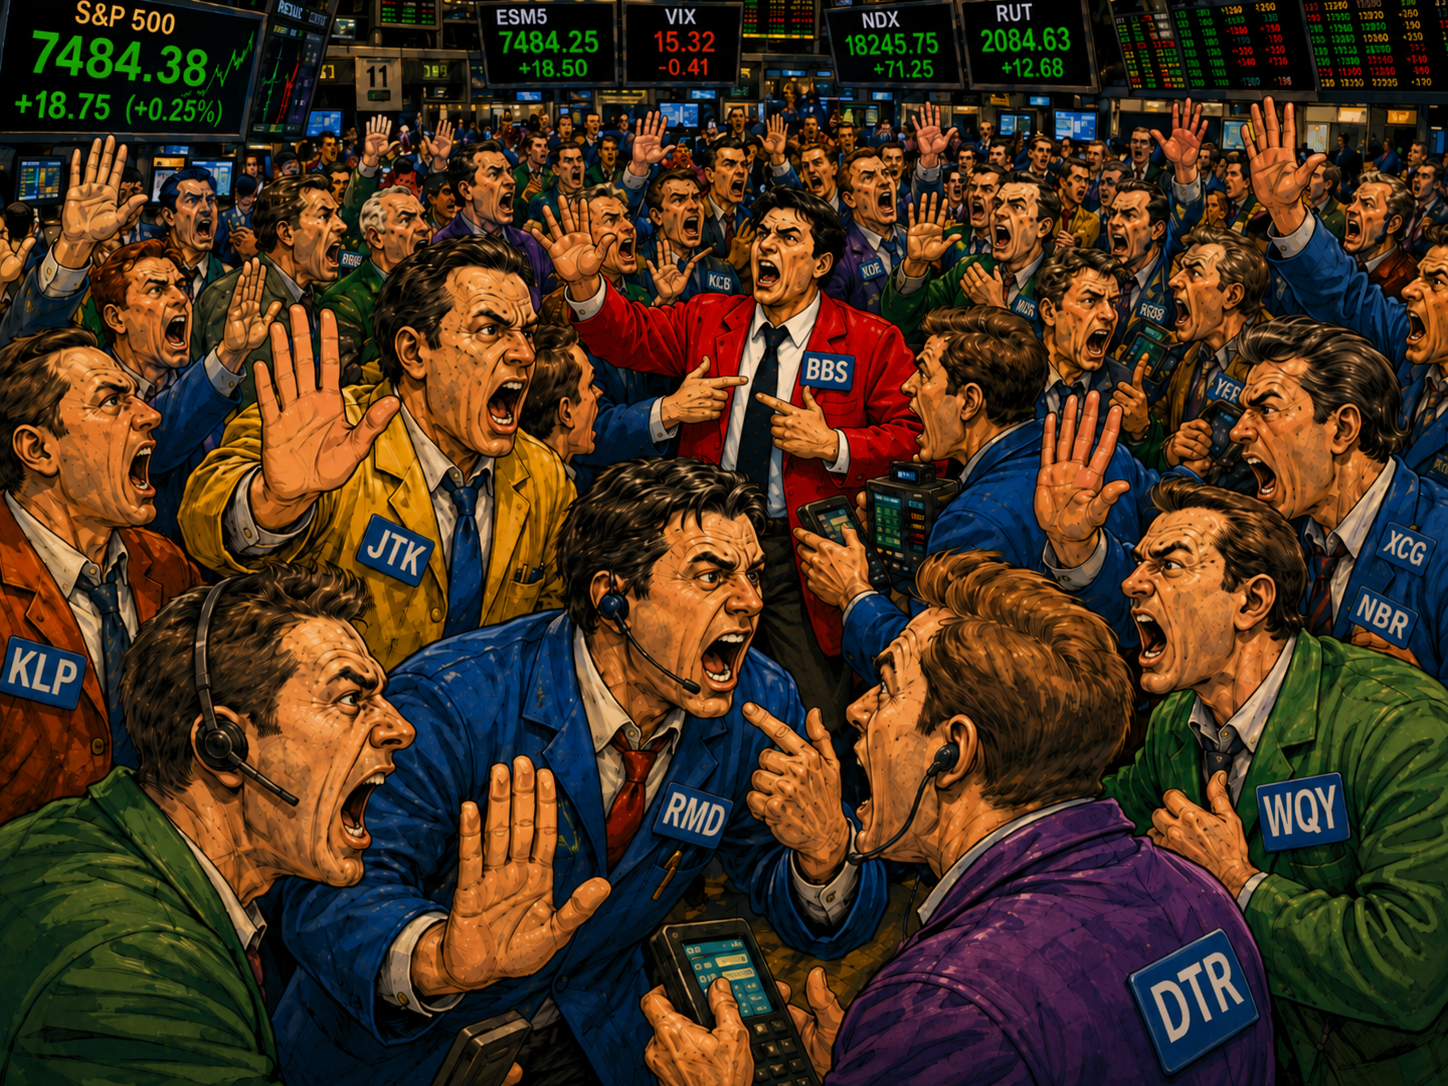
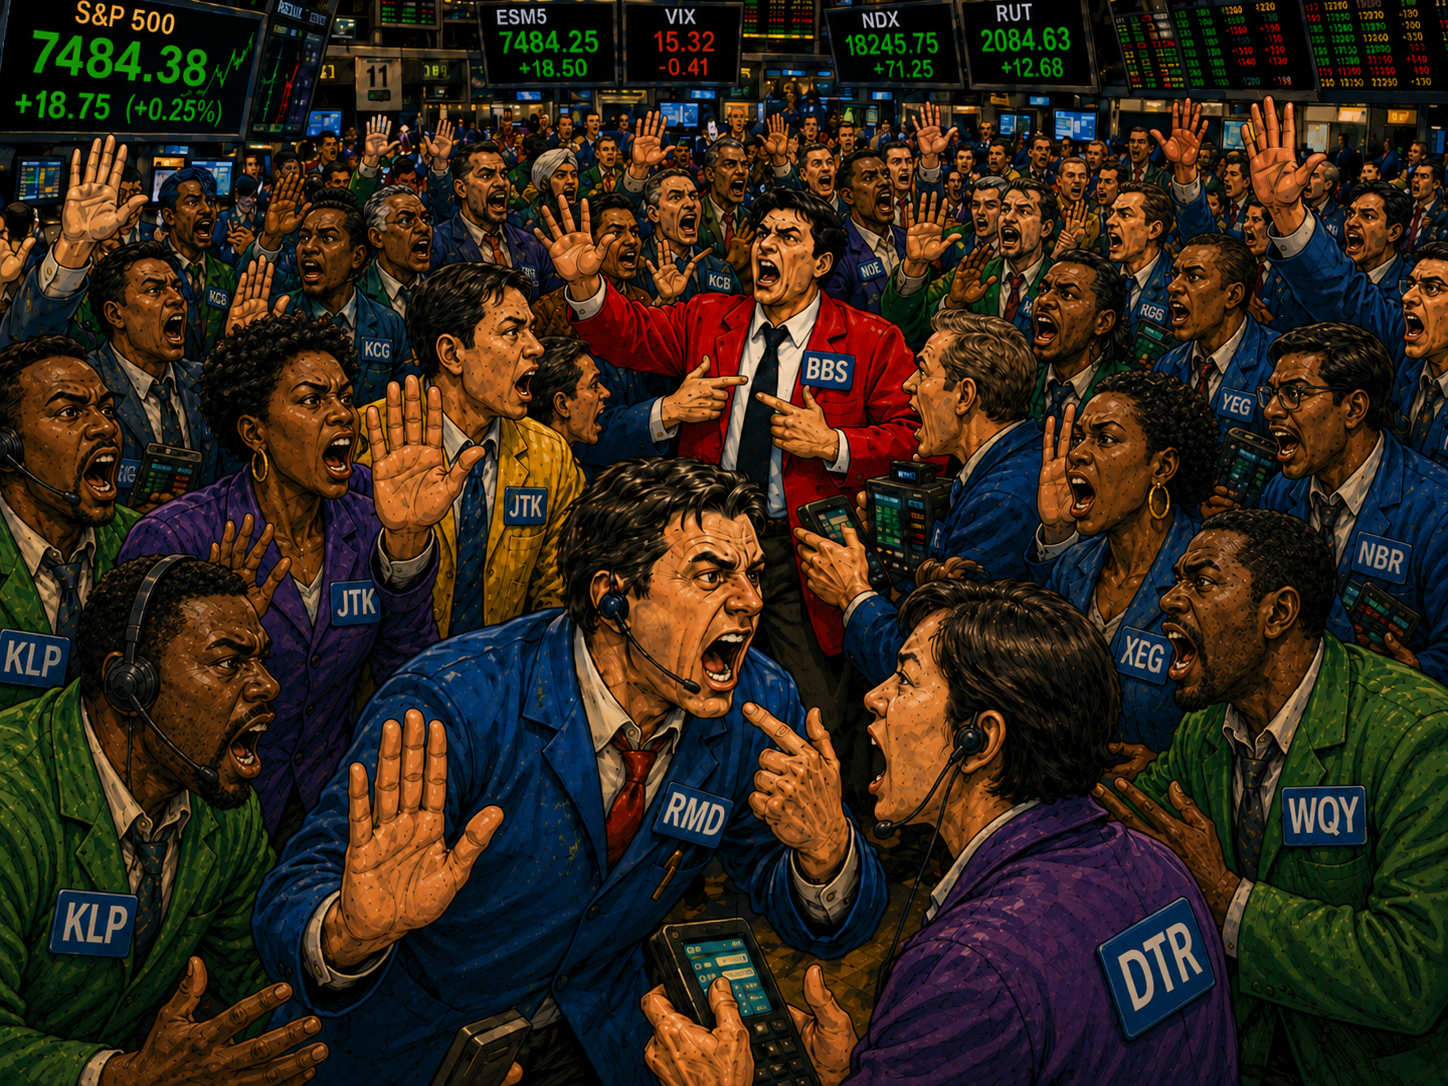
v1.4.35: Add AI Analysis example, confidence explainer, and bio/image refresh
Landing page follow-ups: a "See AI Analysis in action" section mirroring
the AI Bracket example (anonymized real output, ticker names replaced,
full text in a modal), a shortened confidence-percentage explainer modal
linked from both the AI Analysis/Bracket sections clarifying that 33.3%
is the random-guess baseline for a 3-way comparison (not 50%), an explicit
sub-$0.10 cost estimate for a full AI Bracket run, a founder-bio addition
noting Marine Corps Judge Advocate service, and regenerated pit-scene
illustrations with a more diverse trading floor.

diff --git a/index.html b/index.html
@@ -261,7 +261,7 @@
 Group 2: comparing JKL, MNO, PQR... winner JKL
 Group 3: comparing STU, VWX, YZA... winner VWX
 Final: comparing group winners... winner JKL</div>
-    <div class="sub" style="font-size:11px; margin-bottom:14px;">Confidence is scored on a 33%-100% scale for a 3-way comparison (33% = no better than a random guess among the 3 candidates, 100% = certain) — scores in the 55-65% range reflect a clear, decisive edge, not a weak call.</div>
+    <div class="sub" style="font-size:11px; margin-bottom:14px;">Confidence is scored on a 33%-100% scale for a 3-way comparison (33% = no better than a random guess among the 3 candidates, 100% = certain) — scores in the 55-65% range reflect a clear, decisive edge, not a weak call. <a href="#" onclick="openConfidenceExplainerModal(); return false;">What does confidence % mean?</a></div>
     <div style="font-size:13px; line-height:1.6;">
       <div style="margin-bottom:16px;">
         <div style="font-weight:600; color:#f8fafc; margin-bottom:4px;">The Pick: JKL (confidence 62%)</div>
@@ -282,6 +282,44 @@ Final: comparing group winners... winner JKL</div>
       </div>
     </div>
     <div style="font-size:11px; font-style:italic; color:#64748b; margin-top:16px;">AI Bracket analysis is generated by Anthropic's Claude and is not financial advice. Verify independently before trading.</div>
+  </div>
+</div>
+
+<div id="analysisExampleModal" class="modal">
+  <div class="modal-content" style="max-width:800px;">
+    <span class="close" onclick="closeAnalysisExampleModal()">&times;</span>
+    <div class="chart-title">AI Analysis — Example Output</div>
+    <div class="sub" style="margin-bottom:14px;">A real day's output, exactly as produced by the app — the only change is that all 9 stock names have been replaced with placeholder codes (ABC, DEF, GHI...) so this reads as a demonstration of the AI's commentary, not as a claim about any specific stock's performance.</div>
+    <div style="font-size:11px; color:#94a3b8; margin-bottom:10px;">Today's analysis — refreshed once daily and shared across users on default settings.</div>
+    <div style="font-size:13px; line-height:1.7;">
+      <div style="font-weight:600; color:#f8fafc; margin-bottom:10px;">Not financial advice — for educational/informational purposes only.</div>
+      <div style="margin-bottom:10px;"><strong style="color:#f8fafc;">ABC</strong> – Quality 75 and solid 15.5% 5yr EPS growth support a fresh bullish MACD cross with price 1.1% above its rising SMA20 and mid-range RSI (49.2), though light 0.55x volume and a stretched -39.7% DCF MOS mean this is a momentum-only hold, not a value buy.</div>
+      <div style="margin-bottom:10px;"><strong style="color:#f8fafc;">DEF</strong> – A 65 Quality score paired with 10.7% EPS growth and a Tech score of 75 backs the Bull MACD and +1.9% SMA20 uptrend, with BB position at 66% showing room to run before overbought, and a modest 9.5% DCF cushion adds some valuation support despite thin 0.46x volume.</div>
+      <div style="margin-bottom:10px;"><strong style="color:#f8fafc;">GHI</strong> – Elite 90 Quality and steady 9% EPS growth make this a fundamentally strong hold even though price sits 3.3% below its SMA20 and BB position is only 43%, with RSI at 39.8 suggesting room to bounce and a huge 58.5% DCF margin of safety providing a strong valuation floor.</div>
+      <div style="margin-bottom:10px;"><strong style="color:#f8fafc;">JKL</strong> – Outstanding 90 Quality and explosive 450% 5yr EPS growth make this a standout candidate; the Bull MACD cross and RSI near 39.3 suggest early recovery from a pullback (SMA20 -2.2%, BB 33%), with an exceptional 186.9% DCF MOS offering deep value support.</div>
+      <div style="margin-bottom:10px;"><strong style="color:#f8fafc;">MNO</strong> – Despite a lower 40 Quality score, MNO shows the strongest technical setup here — Tech 75, RSI 49.9, +3.5% SMA20 trend, and BB position 81% signal real upside momentum, though the -148.5% DCF MOS flags significant overvaluation risk to watch.</div>
+      <div style="margin-bottom:10px;"><strong style="color:#f8fafc;">PQR</strong> – Perfect 100 Quality score and blistering 78.6% EPS growth anchor this pick, and the fresh Bull MACD upcross plus RSI of 43.2 (room to run) and a healthy 37.6% DCF MOS make it attractive, despite a pullback in SMA20 (-2.8%) and light 0.40x volume.</div>
+      <div style="margin-bottom:10px;"><strong style="color:#f8fafc;">STU</strong> – Strong 86.4% EPS growth and a decent 65 Quality score support the Bull MACD signal, and the low RSI (38.0) combined with BB position at 32% suggests oversold conditions ripe for a bounce, aided by the highest relative volume (0.91x) here confirming trader interest and a positive 28.2% DCF MOS.</div>
+      <div style="margin-bottom:10px;"><strong style="color:#f8fafc;">VWX</strong> – A 65 Quality score and solid 29.3% EPS growth underpin a bullish MACD crossover even though it's currently in a Bear state transitioning up, with RSI at 39.4 and BB position at 23% indicating oversold conditions for a potential mean-reversion swing, though the -178.5% DCF MOS warns of steep overvaluation.</div>
+      <div style="margin-bottom:0;"><strong style="color:#f8fafc;">YZA</strong> – High 85 Quality and strong 82% EPS growth make this a fundamentally attractive name, with RSI near midpoint (47.3) and BB position at 48% showing balanced positioning under a Bull MACD, though flat SMA20 trend (-0.2%), low 0.48x volume, and a deeply negative -407.9% DCF MOS suggest the technical edge here is modest and valuation is rich.</div>
+    </div>
+    <div style="font-size:11px; font-style:italic; color:#64748b; margin-top:16px;">AI analysis is generated by Anthropic's Claude and is not financial advice. Verify independently before trading.</div>
+  </div>
+</div>
+
+<div id="confidenceExplainerModal" class="modal">
+  <div class="modal-content" style="max-width:600px;">
+    <span class="close" onclick="closeConfidenceExplainerModal()">&times;</span>
+    <div class="chart-title">What does confidence % mean?</div>
+    <div class="sub" style="margin-bottom:12px;">A 62% confidence score in a 3-way matchup means the AI calculates a 62% probability its pick beats the other two candidates in this specific comparison.</div>
+    <div style="font-weight:600; color:#f8fafc; margin-bottom:4px;">Strong advantage</div>
+    <div class="sub" style="margin-bottom:12px;">A random guess among 3 candidates would average 33.3% each. 62% is nearly double that baseline — a real, meaningful edge, not a marginal one.</div>
+    <div style="font-weight:600; color:#f8fafc; margin-bottom:4px;">Not a guarantee</div>
+    <div class="sub" style="margin-bottom:12px;">62% still leaves a 38% chance one of the other two candidates wins instead.</div>
+    <div style="font-weight:600; color:#f8fafc; margin-bottom:4px;">Relative, not absolute</div>
+    <div class="sub" style="margin-bottom:12px;">This measures how the pick compares only to the other two candidates in that matchup — it's not a prediction that the stock's price will rise, only that it was judged the strongest of the three presented.</div>
+    <div style="font-weight:600; color:#f8fafc; margin-bottom:4px;">Where the remaining 38% goes</div>
+    <div class="sub" style="margin-bottom:0;">It splits between the two runners-up depending on how close the matchup was — e.g. a clear runner-up might get 30% (with 8% left for last place), or a tighter three-way call might split closer to 19%/19%.</div>
   </div>
 </div>
 
@@ -409,12 +447,20 @@ function renderGateScreen() {
         </div>
 
         <div style="border:1px solid #1e2740; border-radius:8px; padding:18px 20px; margin-top:24px;">
+          <div class="chart-title" style="font-size:20px;">See AI Analysis in action</div>
+          <div class="sub" style="margin-bottom:14px;">A real day's output, exactly as produced by the app — the only change is that all 9 stock names have been replaced with placeholder codes (ABC, DEF, GHI...) so this reads as a demonstration of the AI's commentary, not as a claim about any specific stock's performance.</div>
+          <div class="sub" style="margin-bottom:14px;"><strong style="color:#f8fafc;">ABC</strong> – Quality 75 and solid 15.5% 5yr EPS growth support a fresh bullish MACD cross with price 1.1% above its rising SMA20 and mid-range RSI (49.2), though light 0.55x volume and a stretched -39.7% DCF MOS mean this is a momentum-only hold, not a value buy...</div>
+          <button onclick="openAnalysisExampleModal()" class="secondary">View Full Example</button>
+        </div>
+
+        <div style="border:1px solid #1e2740; border-radius:8px; padding:18px 20px; margin-top:24px;">
           <div class="chart-title" style="font-size:20px;">See AI Bracket in action</div>
           <div class="sub" style="margin-bottom:14px;">A real run, exactly as produced by the app — the only change is that all 9 stock names have been replaced with placeholder codes (ABC, DEF, GHI...) so this reads as a demonstration of how the AI reasons, not as a claim about any specific stock's performance.</div>
           <div style="font-weight:600; color:#f8fafc; margin-bottom:4px;">The Pick: JKL (confidence 62%)</div>
-          <div class="sub" style="font-size:11px; margin-bottom:8px;">Confidence is scored on a 33%-100% scale for this 3-way comparison (33% = no better than a random guess among the 3 candidates, 100% = certain) — 62% reflects a clear, decisive edge, not a weak call.</div>
+          <div class="sub" style="font-size:11px; margin-bottom:8px;">Confidence is scored on a 33%-100% scale for this 3-way comparison (33% = no better than a random guess among the 3 candidates, 100% = certain) — 62% reflects a clear, decisive edge, not a weak call. <a href="#" onclick="openConfidenceExplainerModal(); return false;">What does confidence % mean?</a></div>
           <div class="sub" style="margin-bottom:14px;">JKL stands out as the only candidate combining strong fundamentals (Quality 100, DCF margin of safety +37.6%) with a genuine technical reversal: a fresh bullish MACD cross with rising momentum, price basing near the lower Bollinger Band after a multi-month correction, and RSI at 43 leaving significant upside room before overbought conditions...</div>
           <button onclick="openBracketExampleModal()" class="secondary">View Full Example</button>
+          <div class="sub" style="margin-top:10px; font-size:11px;">A full 4-comparison bracket run typically costs well under $0.10 on your own Anthropic account.</div>
         </div>
 
         <div style="border:1px solid #1e2740; border-radius:8px; padding:14px 16px; margin-top:24px;">
@@ -431,7 +477,7 @@ function renderGateScreen() {
         <div class="chart-title" style="font-size:18px;">Built by someone who traded the pit, not just the backtest</div>
         <div style="display:flex; gap:20px; flex-wrap:wrap; align-items:flex-start; margin-bottom:24px;">
           <img src="founder-photo.png" alt="Benjamin Sley, founder of Blue Chip Swing Trader" style="width:160px; height:160px; object-fit:cover; border-radius:8px; border:1px solid #1e2740; flex-shrink:0;">
-          <div class="sub" style="flex:1; min-width:240px; margin-bottom:0;">Blue Chip Swing Trader was built by Benjamin Sley, who was a floor trader in the S&amp;P 500 pit in the 1990's, at the Chicago Mercantile Exchange in Chicago — trading badge "BBS" — trained by Mickey Hoffman, a legendary S&amp;P 500 trader and educator. He traded through every kind of session the pit produced — slow, moderate, hectic, and CME-declared "fast markets," the exchange's own designation for periods of extreme volume and volatility. The fundamentals-first, timing-second approach in this tool grew out of that floor-trading background.</div>
+          <div class="sub" style="flex:1; min-width:240px; margin-bottom:0;">Blue Chip Swing Trader was built by Benjamin Sley, who was a floor trader in the S&amp;P 500 pit in the 1990's, at the Chicago Mercantile Exchange — trading badge "BBS" — trained by Mickey Hoffman, a legendary S&amp;P 500 trader and educator. He traded through every kind of session the pit produced — slow, moderate, hectic, and CME-declared "fast markets," the exchange's own designation for periods of extreme volume and volatility. The fundamentals-first, timing-second approach in this tool grew out of that floor-trading background. He is a veteran who served as a Marine Corps Judge Advocate.</div>
         </div>
 
         <div style="border-top:1px solid #1e2740; padding-top:20px;">
@@ -485,6 +531,16 @@ function openBracketExampleModal() { document.getElementById('bracketExampleModa
 window.openBracketExampleModal = openBracketExampleModal;
 function closeBracketExampleModal() { document.getElementById('bracketExampleModal').style.display = 'none'; }
 window.closeBracketExampleModal = closeBracketExampleModal;
+
+function openAnalysisExampleModal() { document.getElementById('analysisExampleModal').style.display = 'block'; }
+window.openAnalysisExampleModal = openAnalysisExampleModal;
+function closeAnalysisExampleModal() { document.getElementById('analysisExampleModal').style.display = 'none'; }
+window.closeAnalysisExampleModal = closeAnalysisExampleModal;
+
+function openConfidenceExplainerModal() { document.getElementById('confidenceExplainerModal').style.display = 'block'; }
+window.openConfidenceExplainerModal = openConfidenceExplainerModal;
+function closeConfidenceExplainerModal() { document.getElementById('confidenceExplainerModal').style.display = 'none'; }
+window.closeConfidenceExplainerModal = closeConfidenceExplainerModal;
 
 async function sendMagicLink() {
   const email = document.getElementById('signInEmailInput').value.trim();
@@ -1326,7 +1382,7 @@ refreshPositionsBtn.addEventListener('click',refreshPositionPrices);
 exportPositionsBtn.addEventListener('click',exportPositionsXLSX);
 byokSettingsBtn.addEventListener('click', openByokKeyModal);
 bracketBtn.addEventListener('click', runAiBracket);
-window.onclick = (e) => { if (e.target == document.getElementById('chartModal')) closeChart(); if (e.target == document.getElementById('positionModal')) closePositionModal(); if (e.target == document.getElementById('byokKeyModal')) closeByokKeyModal(); if (e.target == document.getElementById('signInModal')) closeSignInModal(); if (e.target == document.getElementById('bracketExampleModal')) closeBracketExampleModal(); }
+window.onclick = (e) => { if (e.target == document.getElementById('chartModal')) closeChart(); if (e.target == document.getElementById('positionModal')) closePositionModal(); if (e.target == document.getElementById('byokKeyModal')) closeByokKeyModal(); if (e.target == document.getElementById('signInModal')) closeSignInModal(); if (e.target == document.getElementById('bracketExampleModal')) closeBracketExampleModal(); if (e.target == document.getElementById('analysisExampleModal')) closeAnalysisExampleModal(); if (e.target == document.getElementById('confidenceExplainerModal')) closeConfidenceExplainerModal(); }
 </script>
 </body>
 </html>